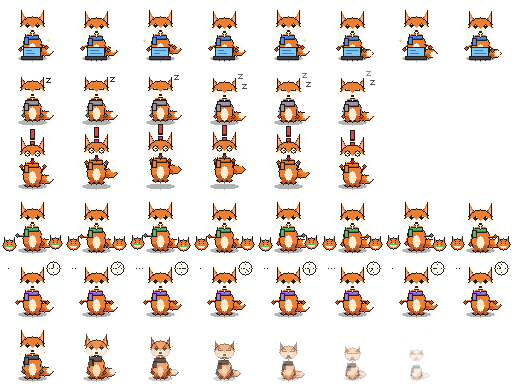
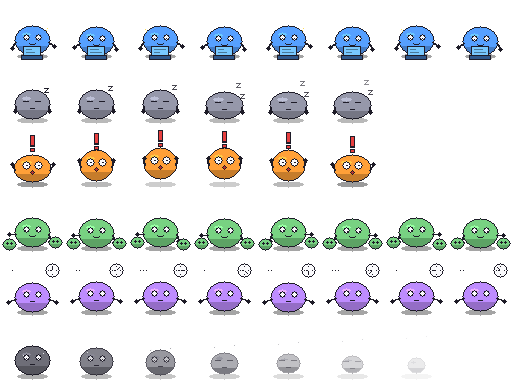
feat(packs): ship Slime (default) and Zorro packs, show manifest names in settings

diff --git a/ui/settings/main.ts b/ui/settings/main.ts
@@ -9,7 +9,7 @@ interface Status {
 }
 
 const app = document.getElementById("app")!;
-let status: Status; let agents: AgentView[] = []; let packs: string[] = []; let autostart = false;
+let status: Status; let agents: AgentView[] = []; let packs: { dir: string; name: string }[] = []; let autostart = false;
 
 // All dynamic values go through textContent: agent strings are untrusted.
 function el<K extends keyof HTMLElementTagNameMap>(
@@ -32,8 +32,8 @@ function render() {
 
   const packSel = el("select", undefined, { id: "pack" });
   for (const p of packs) {
-    const o = el("option", p);
-    o.selected = p === status.pack;
+    const o = el("option", p.name, { value: p.dir });
+    o.selected = p.dir === status.pack;
     packSel.append(o);
   }
   packSel.onchange = async () => {
@@ -81,7 +81,7 @@ function render() {
 
 async function refresh() {
   [status, agents, packs, autostart] = await Promise.all([
-    invoke<Status>("get_status"), invoke<AgentView[]>("list_agents"), invoke<string[]>("list_pack_names"), isEnabled().catch(() => false),
+    invoke<Status>("get_status"), invoke<AgentView[]>("list_agents"), invoke<{ dir: string; name: string }[]>("list_pack_names"), isEnabled().catch(() => false),
   ]);
   render();
 }

diff --git a/src-tauri/src/packs/manifest.rs b/src-tauri/src/packs/manifest.rs
@@ -76,6 +76,17 @@ pub fn load_pack(dir: &Path) -> Result<Manifest, PackError> {
     Ok(m)
 }
 
+/// A pack directory plus the human name from its manifest (falls back to the directory name).
+#[derive(Debug, Clone, Serialize, PartialEq)]
+pub struct PackInfo { pub dir: String, pub name: String }
+
+pub fn list_pack_infos(root: &Path) -> Vec<PackInfo> {
+    list_packs(root).into_iter().map(|dir| {
+        let name = load_pack(&root.join(&dir)).map(|m| m.name).unwrap_or_else(|_| dir.clone());
+        PackInfo { dir, name }
+    }).collect()
+}
+
 pub fn list_packs(root: &Path) -> Vec<String> {
     let Ok(rd) = std::fs::read_dir(root) else { return vec![] };
     let mut v: Vec<String> = rd.filter_map(|e| e.ok())
@@ -151,9 +162,25 @@ mod tests {
         assert_eq!(list_packs(root.path()), vec!["a".to_string()]);
     }
 
-    #[test] fn bundled_default_pack_is_valid() {
-        let dir = std::path::Path::new(env!("CARGO_MANIFEST_DIR")).join("../assets/packs/default");
-        let m = load_pack(&dir).expect("default pack must validate");
-        assert_eq!(m.name, "default");
+    #[test] fn bundled_packs_are_valid() {
+        let root = std::path::Path::new(env!("CARGO_MANIFEST_DIR")).join("../assets/packs");
+        let m = load_pack(&root.join("default")).expect("default pack must validate");
+        assert_eq!(m.name, "Slime");
+        let m = load_pack(&root.join("fox")).expect("fox pack must validate");
+        assert_eq!(m.name, "Zorro");
+        assert_eq!(list_packs(&root), vec!["default".to_string(), "fox".to_string()]);
+    }
+
+    #[test] fn list_pack_infos_returns_dir_and_manifest_name() {
+        let root = tempfile::tempdir().unwrap();
+        fs::create_dir(root.path().join("a")).unwrap();
+        write_png(&root.path().join("a/s.png"), 64, 96);
+        fs::write(root.path().join("a/pack.json"), full_json("s.png").replace(r#""name":"t""#, r#""name":"Pretty""#)).unwrap();
+        fs::create_dir(root.path().join("broken")).unwrap();
+        fs::write(root.path().join("broken/pack.json"), "{}").unwrap();
+        let infos = list_pack_infos(root.path());
+        assert_eq!(infos.len(), 2);
+        assert_eq!((infos[0].dir.as_str(), infos[0].name.as_str()), ("a", "Pretty"));
+        assert_eq!((infos[1].dir.as_str(), infos[1].name.as_str()), ("broken", "broken"), "invalid manifest falls back to dir name");
     }
 }

diff --git a/src-tauri/src/commands.rs b/src-tauri/src/commands.rs
@@ -1,6 +1,6 @@
 use crate::config::{config_path, Config};
 use crate::installer;
-use crate::packs::{list_packs, load_pack, Manifest};
+use crate::packs::{list_pack_infos, PackInfo, list_packs, load_pack, Manifest};
 use crate::state::store::AgentView;
 use crate::state::agent_state::provisional_name;
 use crate::windows::manager::{label_for, save_position};
@@ -75,7 +75,7 @@ pub fn uninstall_hooks(app: State<Arc<App>>) -> Result<(), String> {
 }
 
 #[tauri::command]
-pub fn list_pack_names(app: State<Arc<App>>) -> Vec<String> { list_packs(&app.packs_root) }
+pub fn list_pack_names(app: State<Arc<App>>) -> Vec<PackInfo> { list_pack_infos(&app.packs_root) }
 
 #[tauri::command]
 pub fn set_pack(handle: AppHandle, app: State<Arc<App>>, name: String) -> Result<(), String> {

diff --git a/README.md b/README.md
@@ -9,7 +9,7 @@ Desktop pet para Claude Code: un sprite flotante por sesión, animado según su 
 ## Desarrollo
 ```bash
 npm install
-npm run gen:pack        # regenera assets/packs/default
+npm run gen:pack        # regenera assets/packs/default (Slime) y assets/packs/fox (Zorro)
 cargo tauri dev
 ```
 Revisión visual sin Claude Code: `npm run dev` y abre
@@ -30,6 +30,8 @@ Revisión visual sin Claude Code: `npm run dev` y abre
 ## Packs de sprites
 `assets/packs/<nombre>/pack.json` + PNG. Seis animaciones obligatorias: `working`, `idle`,
 `needs_input`, `delegating`, `waiting_peer`, `gone`. Ver `assets/packs/default/pack.json`.
+Packs incluidos: `default` (Slime) y `fox` (Zorro). Se cambian desde Ajustes; el campo `name`
+del manifiesto es lo que muestra el desplegable.
 
 ## Cómo funciona
 - Hooks HTTP de Claude Code → `POST 127.0.0.1:7433/hook` (push inmediato).
